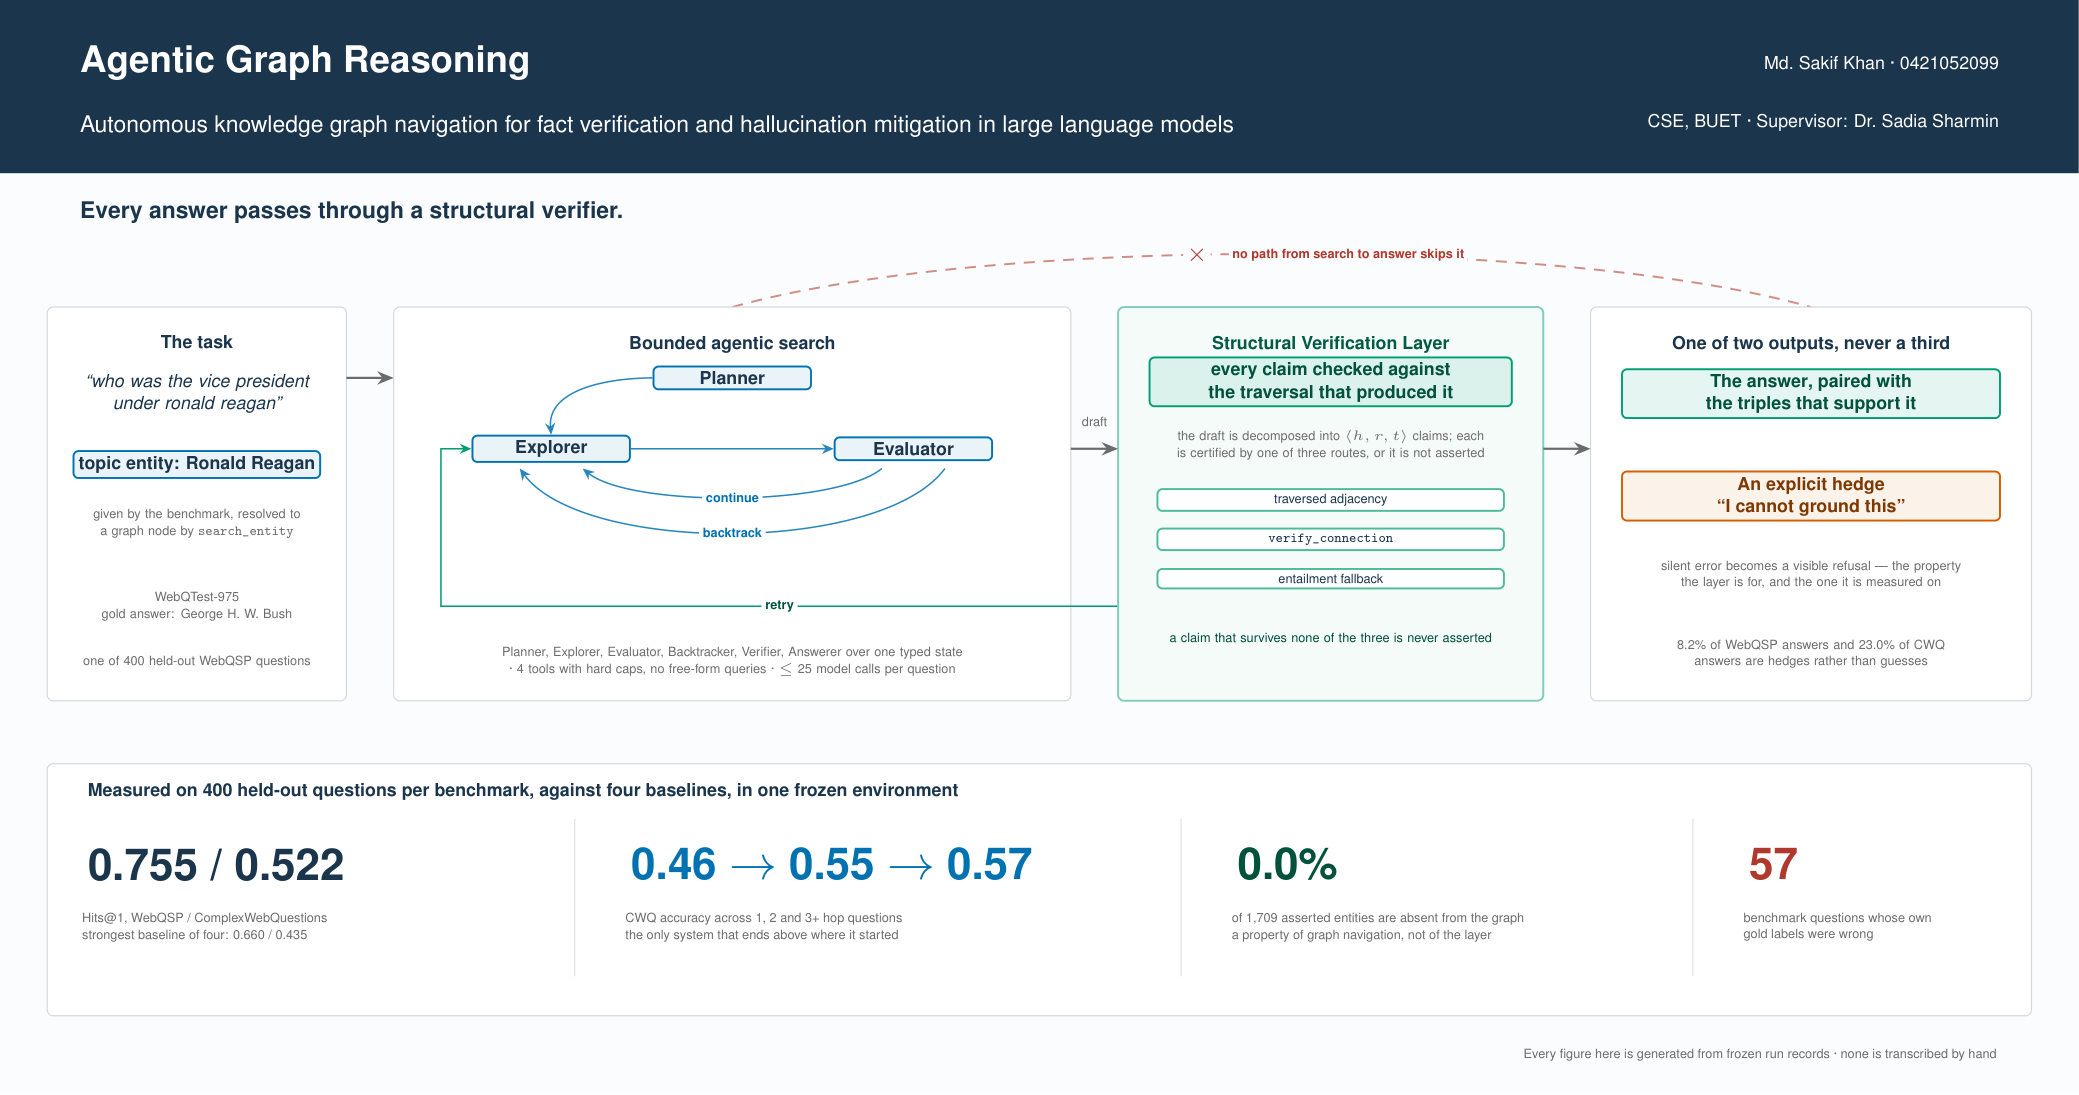
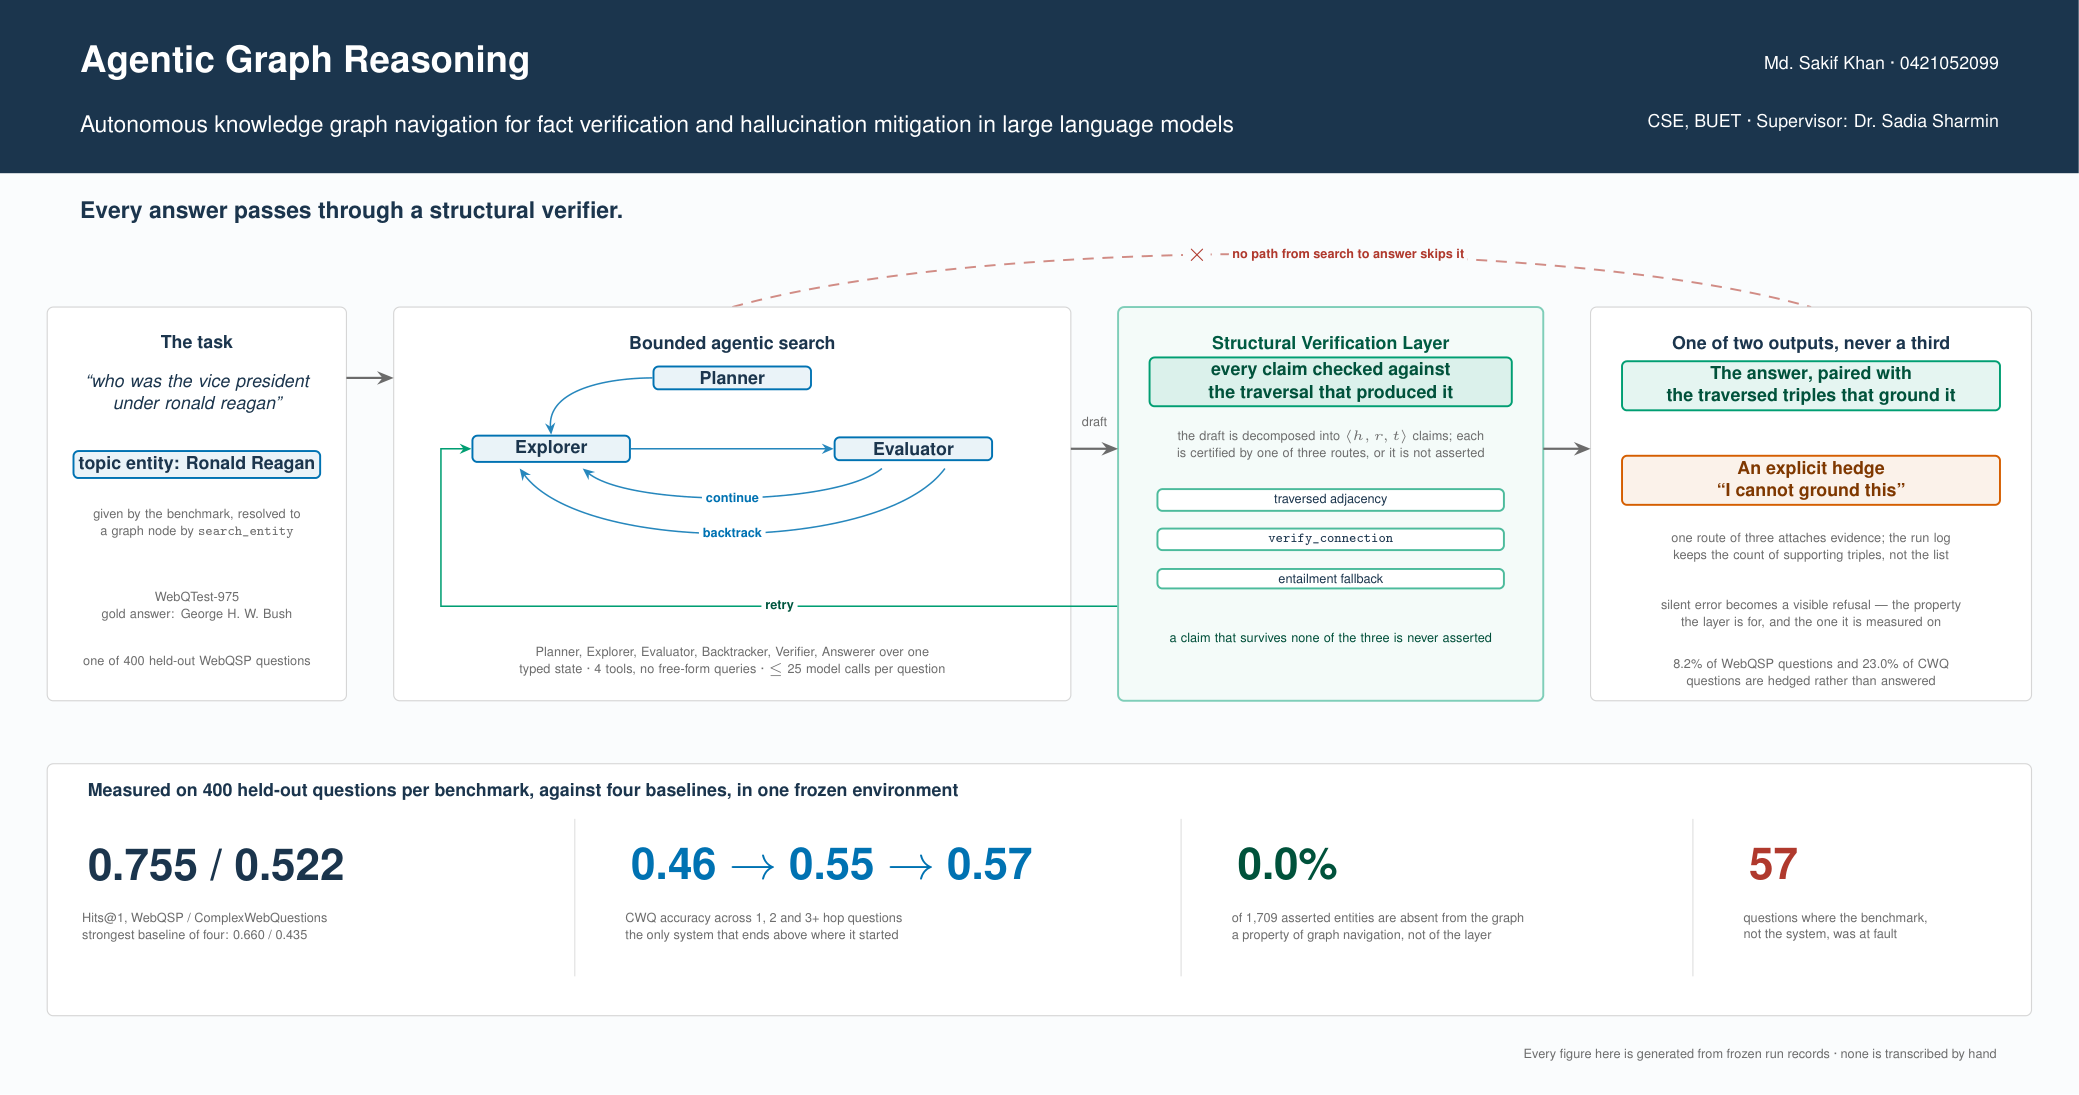
The event card claimed the output contract, and escaped the guard twice.

Changed region(s): [[0.7696, 0.3105, 0.9543, 0.621], [0.2463, 0.59, 0.4618, 0.621], [0.8312, 0.8384, 0.9235, 0.8694]]

diff --git a/tests/probes/prove_contract.py b/tests/probes/prove_contract.py
@@ -30,8 +30,10 @@ SCRIPT = ROOT / "thesis_presentation" / "transcript.md"
 TABS = ROOT / "thesis_book" / "inputs" / "buetcsepgthesisabstract.tex"
 PREADME = ROOT / "thesis_paper" / "README.md"
 HIGH = ROOT / "thesis_paper" / "highlights.txt"
+CARD = ROOT / "thumbnail" / "thumbnail.tex"
 
-FILES = (DECK, SCRIPT, TABS, PREADME, HIGH)
+CHECKER = ROOT / TEST
+FILES = (DECK, SCRIPT, TABS, PREADME, HIGH, CARD, CHECKER)
 orig = {p: io.open(p, encoding="utf-8", newline="").read() for p in FILES}
 
 
@@ -114,6 +116,44 @@ def strip_bound(path, bound, label):
     return go
 
 
+FLAT_FIXED = r'return " ".join(re.sub(r"\\\\", " ", text).split())'
+FLAT_PLAIN = 'return " ".join(text.split())'
+
+
+def set_flat(collapse):
+    """Turn the LaTeX line break collapse in the checker's flat() on or off."""
+    s = io.open(CHECKER, encoding="utf-8", newline="").read()
+    want, other = ((FLAT_FIXED, FLAT_PLAIN) if collapse
+                   else (FLAT_PLAIN, FLAT_FIXED))
+    assert other in s or want in s, "flat() is not where this probe left it"
+    io.open(CHECKER, "w", encoding="utf-8", newline="").write(
+        s.replace(other, want) if other in s else s)
+
+
+def card_as_shipped():
+    """The output panel exactly as it went to the event page.
+
+    Both halves matter. Reverting only the headline leaves the bounds
+    standing, and the checker then passes for the right reason -- which
+    proves nothing about flat().
+    """
+    gap = r"\s+"
+    now = (r"{\textbf{The answer}, paired with\\ the traversed triples "
+           r"that ground it};")
+    was = r"{\textbf{The answer}, paired with\\ the triples that support it};"
+    pat = re.compile(gap.join(re.escape(w) for w in now.split()))
+    s = orig[CARD]
+    assert pat.search(s), "the card no longer reads as this probe expects"
+    s = pat.sub(lambda _: was, s, count=1)
+    for bound in (BOUND_ROUTE, BOUND_RECORD):
+        s = rewrapped(bound).sub("", s)
+    # Asserted through the checker's own predicates, so "the shipped
+    # state" is its definition of the defect and not this probe's.
+    assert CLAIM.search(flat(s)), "the reproduction lost the claim"
+    assert not BOUND_ROUTE.search(flat(s)), "a route bound survived"
+    assert not BOUND_RECORD.search(flat(s)), "a record bound survived"
+    io.open(CARD, "w", encoding="utf-8", newline="").write(s)
+
 def unquote_a_retraction():
     """Strip the quotation marks off a cited overclaim, making it a claim."""
     def go():
@@ -126,6 +166,14 @@ def unquote_a_retraction():
 
 
 CASES = [
+    # The card, which reaches more people than the other five artifacts
+    # combined and carries no section 6 to withdraw anything in.
+    ("shipped: the event card claims the contract with neither bound",
+     card_as_shipped),
+    ("...and its route bound alone is not enough",
+     strip_bound(CARD, BOUND_ROUTE, "route")),
+    ("...nor its record bound alone",
+     strip_bound(CARD, BOUND_RECORD, "record")),
     ("shipped: slide 15, evidence for every asserted claim",
      edit(DECK, r"\item Attaches \alert{supporting triples} --- from one route of",
           r"\item Attaches \alert{supporting triples} to every asserted claim %")),
@@ -172,15 +220,41 @@ try:
 finally:
     restore()
 
+# ---------------------------------------------------------------------
+# The fix itself, not the document. The card shipped
+# "paired with\\ the triples that support it", and CLAIM wants a space
+# between "with" and "the" -- so the LaTeX line break hid the claim from
+# the rule written to catch exactly it. Adding thumbnail/ to units()
+# would not have caught it either; both had to change.
+#
+# This cannot be an ordinary case, because the state it demonstrates is
+# the checker PASSING. Run as a pair instead.
+two_state = []
+try:
+    card_as_shipped()
+    for collapse in (False, True):
+        set_flat(collapse)
+        r = subprocess.run([sys.executable, "-m", "pytest", TEST, "-q"],
+                           cwd=ROOT, capture_output=True, text=True)
+        two_state.append((collapse, r.returncode))
+finally:
+    restore()
+
+flat_proves = two_state == [(False, 0), (True, 1)]
+
 for name, rc, first in out:
     print(f"{'CAUGHT' if rc else 'MISSED':7s}  {name}")
     if first:
         print(f"{'':9s}{first[:96]}")
+print(f"\nflat() collapsing the LaTeX line break is what catches the card:")
+for collapse, rc in two_state:
+    print(f"  {'ENABLED ' if collapse else 'DISABLED'} -> rc={rc}"
+          f"   {'caught' if rc else 'missed'}")
 
 r = subprocess.run([sys.executable, "-m", "pytest", TEST, "-q"],
                    cwd=ROOT, capture_output=True, text=True)
 print(f"\nrestored -> rc={r.returncode}  "
       f"({r.stdout.strip().splitlines()[-1]})")
-passed = all(rc for _, rc, _ in out) and r.returncode == 0
+passed = all(rc for _, rc, _ in out) and r.returncode == 0 and flat_proves
 print("ALL CASES CAUGHT" if passed else "SOME CASE MISSED")
 sys.exit(0 if passed else 1)

diff --git a/thumbnail/build_thumbnail.py b/thumbnail/build_thumbnail.py
@@ -140,8 +140,8 @@ TEMPLATE = r"""
 
 \node[lbl, align=center, text width=80mm] at (93,59)
   {Planner, Explorer, Evaluator, Backtracker, Verifier, Answerer over one
-   typed state \textperiodcentered\ 4 tools with hard caps, no free-form
-   queries \textperiodcentered\ $\leq$ @@CALLS@@ model calls per question};
+   typed state \textperiodcentered\ 4 tools, no free-form queries
+   \textperiodcentered\ $\leq$ @@CALLS@@ model calls per question};
 
 % ================= 3. the verifier =================================
 \node[stage, minimum width=54mm, minimum height=50mm, draw=agrSup!50,
@@ -167,17 +167,26 @@ TEMPLATE = r"""
 \node[stage, minimum width=56mm, minimum height=50mm] (obox) at (230,79) {};
 \node[head, anchor=north] at (230,101.5) {One of two outputs, never a third};
 \node[node, minimum width=48mm, draw=agrSup, fill=agrSup!10,
-      text=agrSup!52!black] (ans) at (230,93)
-  {\textbf{The answer}, paired with\\ the triples that support it};
+      text=agrSup!52!black] (ans) at (230,94)
+  {\textbf{The answer}, paired with\\ the traversed triples that ground it};
 \node[node, minimum width=48mm, draw=agrUns, fill=agrUns!8,
-      text=agrUns!60!black] (hedge) at (230,80)
+      text=agrUns!60!black] (hedge) at (230,82)
   {\textbf{An explicit hedge}\\ ``I cannot ground this''};
-\node[lbl, align=center, text width=50mm] at (230,70)
+% The two bounds, on the card that makes the claim. A long document can
+% claim the contract in section 1 and withdraw it in section 6 because
+% section 6 is always there to be read; an event card has no section 6.
+\node[lbl, align=center, text width=50mm] at (230,73.5)
+  {one route of three attaches evidence; the run log keeps the count of
+   supporting triples, not the list};
+\node[lbl, align=center, text width=50mm] at (230,65)
   {silent error becomes a visible refusal --- the property the layer is
    for, and the one it is measured on};
-\node[lbl, align=center, text width=50mm] at (230,60)
-  {@@HEDGEWQ@@\% of WebQSP answers and @@HEDGECWQ@@\% of CWQ answers are
-   hedges rather than guesses};
+% hedge_pct is a share of QUESTIONS (scripts/score_test.py counts
+% `not pred` over per-question rows), and a hedge is by definition not an
+% answer, so "of answers" contradicted itself.
+\node[lbl, align=center, text width=50mm] at (230,57.5)
+  {@@HEDGEWQ@@\% of WebQSP questions and @@HEDGECWQ@@\% of CWQ questions
+   are hedged rather than answered};
 
 % ================= the spine =======================================
 \draw[flow] (44,95) -- (50,95);
@@ -215,7 +224,7 @@ TEMPLATE = r"""
 \node[anchor=north west, font=\LARGE\bfseries, text=agraccent]
   at (221,36.5) {@@DEFECTS@@};
 \node[anchor=north west, lbl, align=left] at (221,27.5)
-  {benchmark questions whose own\\ gold labels were wrong};
+  {questions where the benchmark,\\ not the system, was at fault};
 
 \node[anchor=east, lbl] at (254,9)
   {Every figure here is generated from frozen run records

diff --git a/thumbnail/thumbnail.tex b/thumbnail/thumbnail.tex
@@ -107,8 +107,8 @@
 
 \node[lbl, align=center, text width=80mm] at (93,59)
   {Planner, Explorer, Evaluator, Backtracker, Verifier, Answerer over one
-   typed state \textperiodcentered\ 4 tools with hard caps, no free-form
-   queries \textperiodcentered\ $\leq$ 25 model calls per question};
+   typed state \textperiodcentered\ 4 tools, no free-form queries
+   \textperiodcentered\ $\leq$ 25 model calls per question};
 
 % ================= 3. the verifier =================================
 \node[stage, minimum width=54mm, minimum height=50mm, draw=agrSup!50,
@@ -134,17 +134,26 @@
 \node[stage, minimum width=56mm, minimum height=50mm] (obox) at (230,79) {};
 \node[head, anchor=north] at (230,101.5) {One of two outputs, never a third};
 \node[node, minimum width=48mm, draw=agrSup, fill=agrSup!10,
-      text=agrSup!52!black] (ans) at (230,93)
-  {\textbf{The answer}, paired with\\ the triples that support it};
+      text=agrSup!52!black] (ans) at (230,94)
+  {\textbf{The answer}, paired with\\ the traversed triples that ground it};
 \node[node, minimum width=48mm, draw=agrUns, fill=agrUns!8,
-      text=agrUns!60!black] (hedge) at (230,80)
+      text=agrUns!60!black] (hedge) at (230,82)
   {\textbf{An explicit hedge}\\ ``I cannot ground this''};
-\node[lbl, align=center, text width=50mm] at (230,70)
+% The two bounds, on the card that makes the claim. A long document can
+% claim the contract in section 1 and withdraw it in section 6 because
+% section 6 is always there to be read; an event card has no section 6.
+\node[lbl, align=center, text width=50mm] at (230,73.5)
+  {one route of three attaches evidence; the run log keeps the count of
+   supporting triples, not the list};
+\node[lbl, align=center, text width=50mm] at (230,65)
   {silent error becomes a visible refusal --- the property the layer is
    for, and the one it is measured on};
-\node[lbl, align=center, text width=50mm] at (230,60)
-  {8.2\% of WebQSP answers and 23.0\% of CWQ answers are
-   hedges rather than guesses};
+% hedge_pct is a share of QUESTIONS (scripts/score_test.py counts
+% `not pred` over per-question rows), and a hedge is by definition not an
+% answer, so "of answers" contradicted itself.
+\node[lbl, align=center, text width=50mm] at (230,57.5)
+  {8.2\% of WebQSP questions and 23.0\% of CWQ questions
+   are hedged rather than answered};
 
 % ================= the spine =======================================
 \draw[flow] (44,95) -- (50,95);
@@ -182,7 +191,7 @@
 \node[anchor=north west, font=\LARGE\bfseries, text=agraccent]
   at (221,36.5) {57};
 \node[anchor=north west, lbl, align=left] at (221,27.5)
-  {benchmark questions whose own\\ gold labels were wrong};
+  {questions where the benchmark,\\ not the system, was at fault};
 
 \node[anchor=east, lbl] at (254,9)
   {Every figure here is generated from frozen run records

diff --git a/tests/test_output_contract_claims.py b/tests/test_output_contract_claims.py
@@ -62,13 +62,31 @@ def units():
         "transcript": _read("thesis_presentation/transcript.md"),
         "manuscript": _read("thesis_paper/*.tex", "thesis_paper/sections/*.tex",
                             "thesis_paper/README.md"),
-        "thesis": _read("thesis_book/chapters/*.tex",
+                "thesis": _read("thesis_book/chapters/*.tex",
                         "thesis_book/inputs/*abstract*.tex"),
+        # The event card. Widest audience, least context, and no
+        # section 6 to withdraw anything in: whoever reads it reads it
+        # alone. thumbnail.tex is generated, so a bound added here has
+        # to go into the template in thumbnail/build_thumbnail.py and be
+        # rebuilt -- which is the point.
+        "thumbnail": _read("thumbnail/thumbnail.tex"),
     }
 
 
 def flat(text):
-    return " ".join(text.split())
+    r"""Whitespace-normalised, with LaTeX's line break read as a space.
+
+    A reader sees "paired with the triples"; the source said "paired
+    with\\ the triples", and \\ is not whitespace, so every rule spelled
+    with a space between those words missed the claim entirely. The
+    thumbnail escaped this file on that alone -- adding it to units()
+    would not have caught it.
+
+    Same shape as the transcript's "*below* the no-retrieval", where
+    markdown emphasis sat inside the phrase a rule was spelled for: a
+    rule has to match the text as rendered, not as typed.
+    """
+    return " ".join(re.sub(r"\\\\", " ", text).split())
 
 
 # Claiming the contract. Any of these is enough to owe the bounds.

diff --git a/tests/probes/run_all.py b/tests/probes/run_all.py
@@ -31,7 +31,9 @@ def tracked_dirty():
 # exactly that, so an existing corruption gets preserved rather than
 # reverted, and every later run bakes it in further.
 TARGETS = ("thesis_paper/", "scripts/check_paper_numbers.py",
-           "tests/test_paper_", "thesis_presentation/content-main.tex",
+           "tests/test_paper_", "tests/test_output_contract_claims.py",
+           "thumbnail/",
+           "thesis_presentation/content-main.tex",
            "thesis_presentation/transcript.md",
            "thesis_presentation/content-backup.tex",
            "thesis_presentation/README.md",
